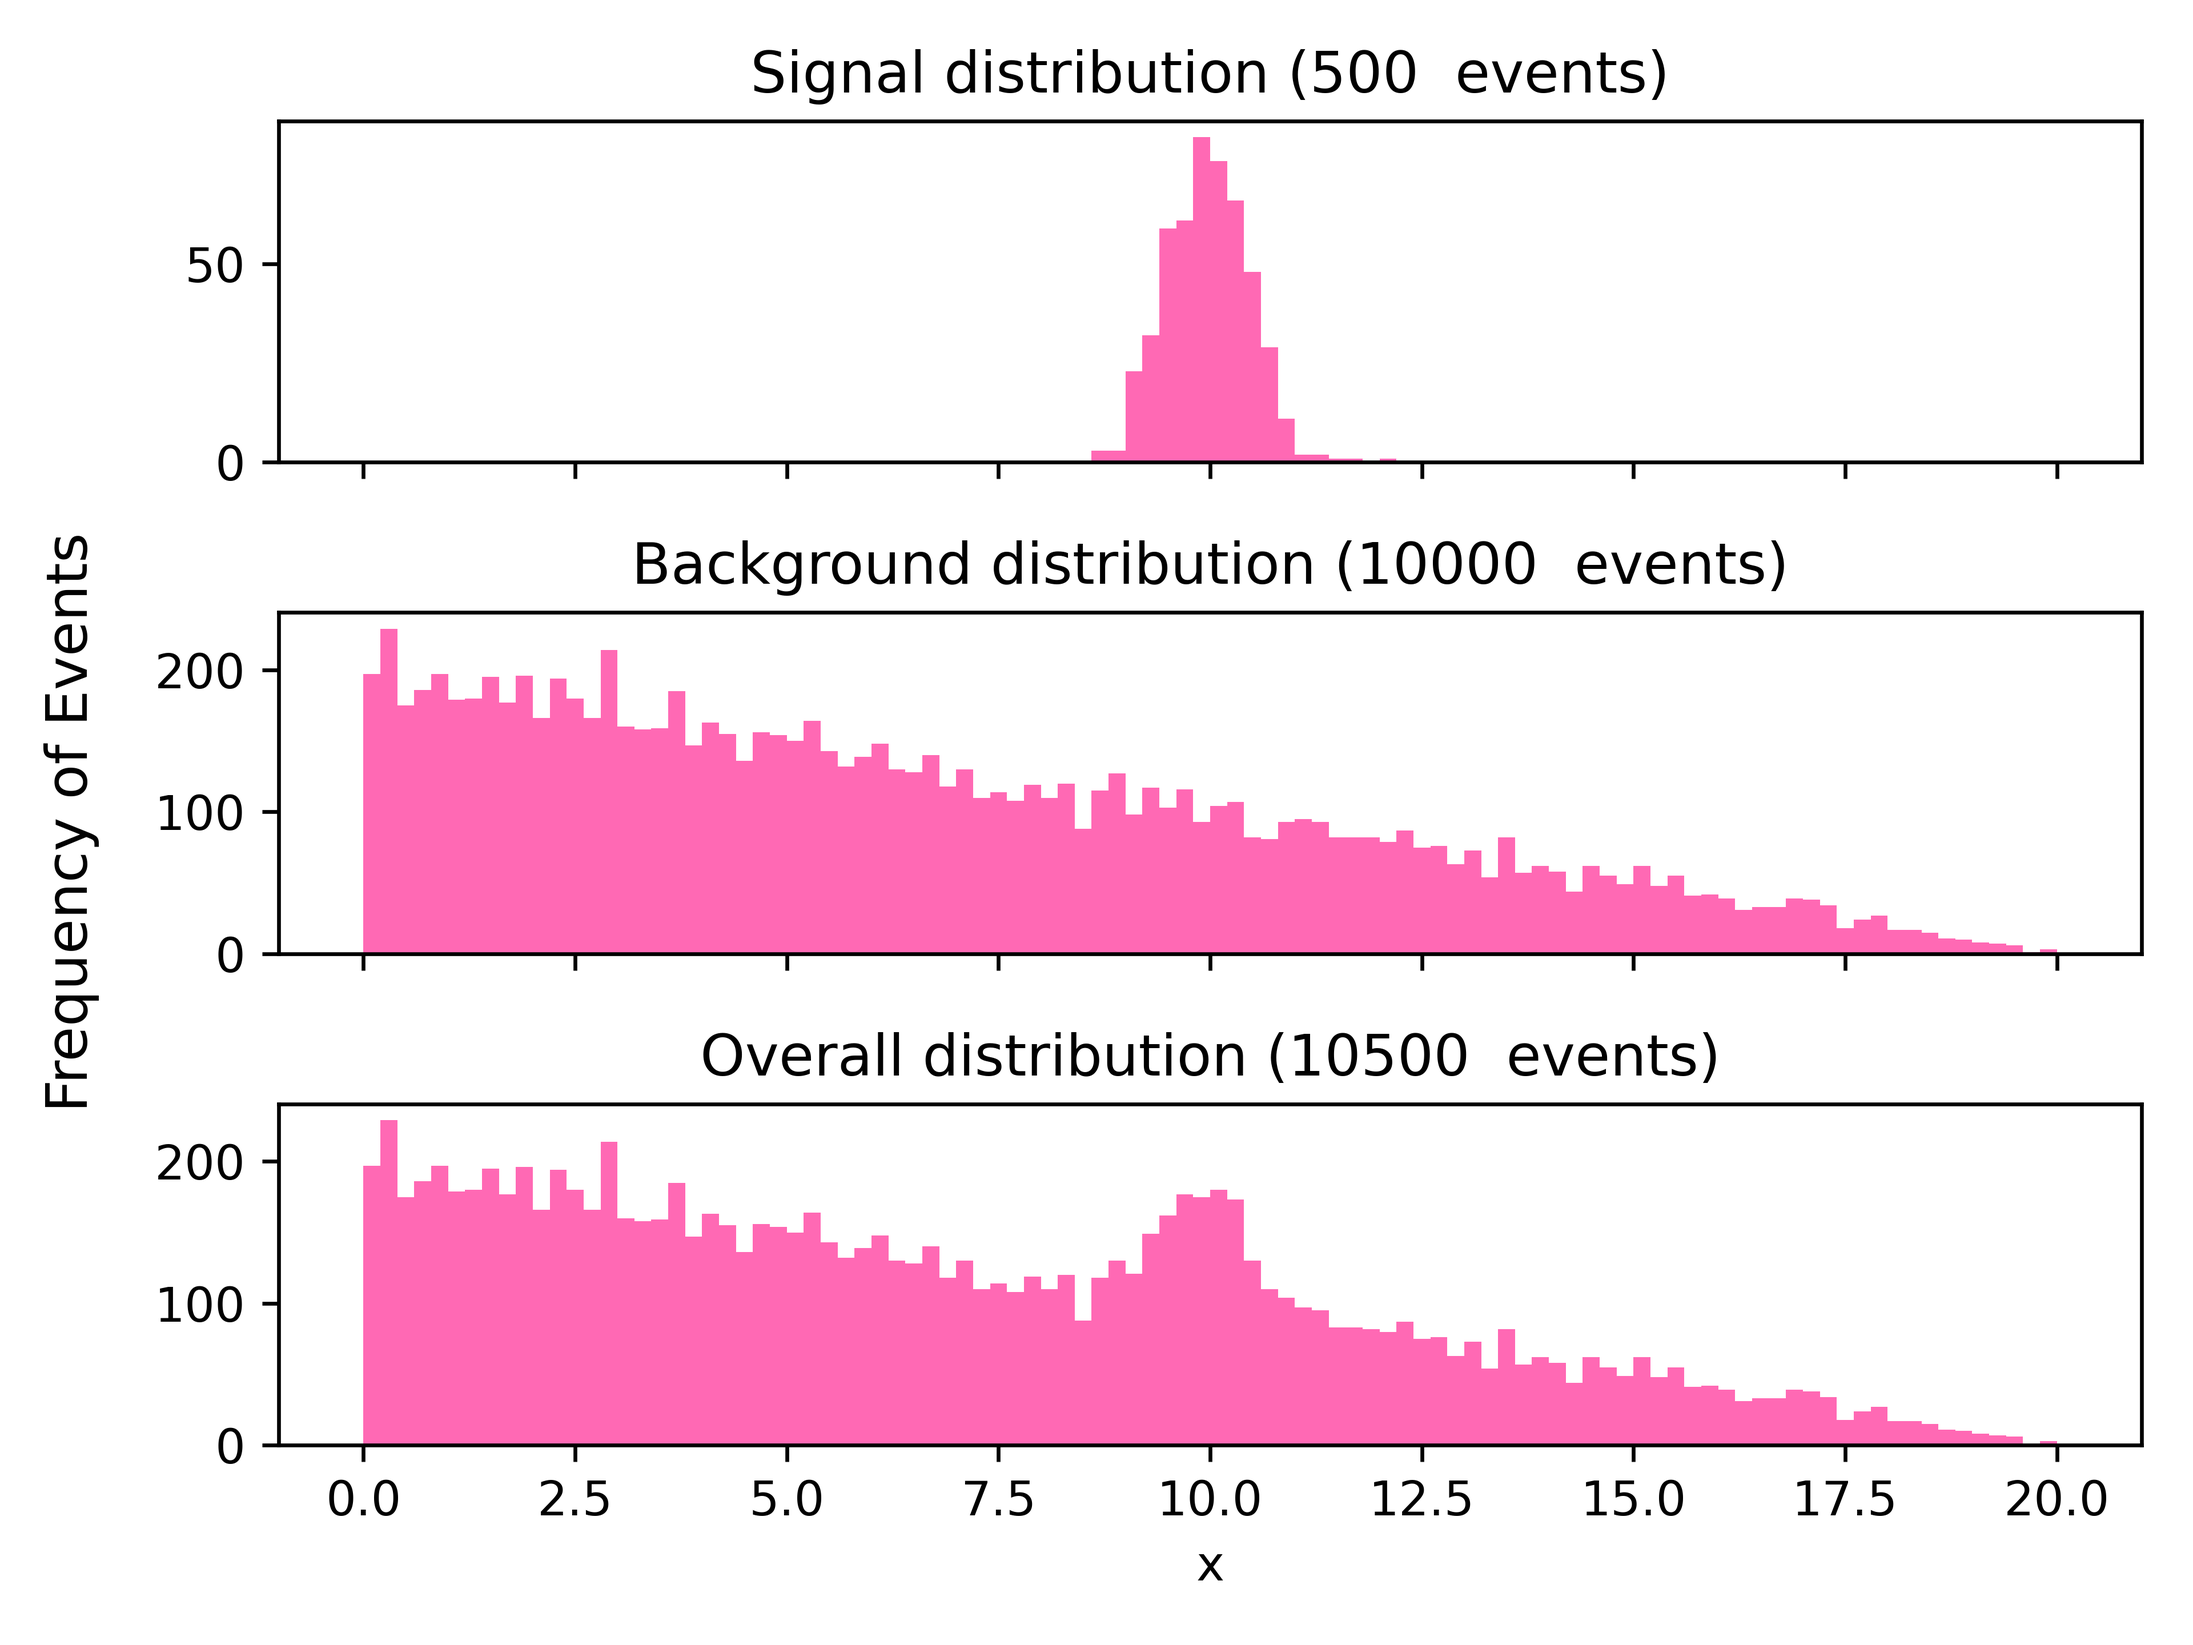
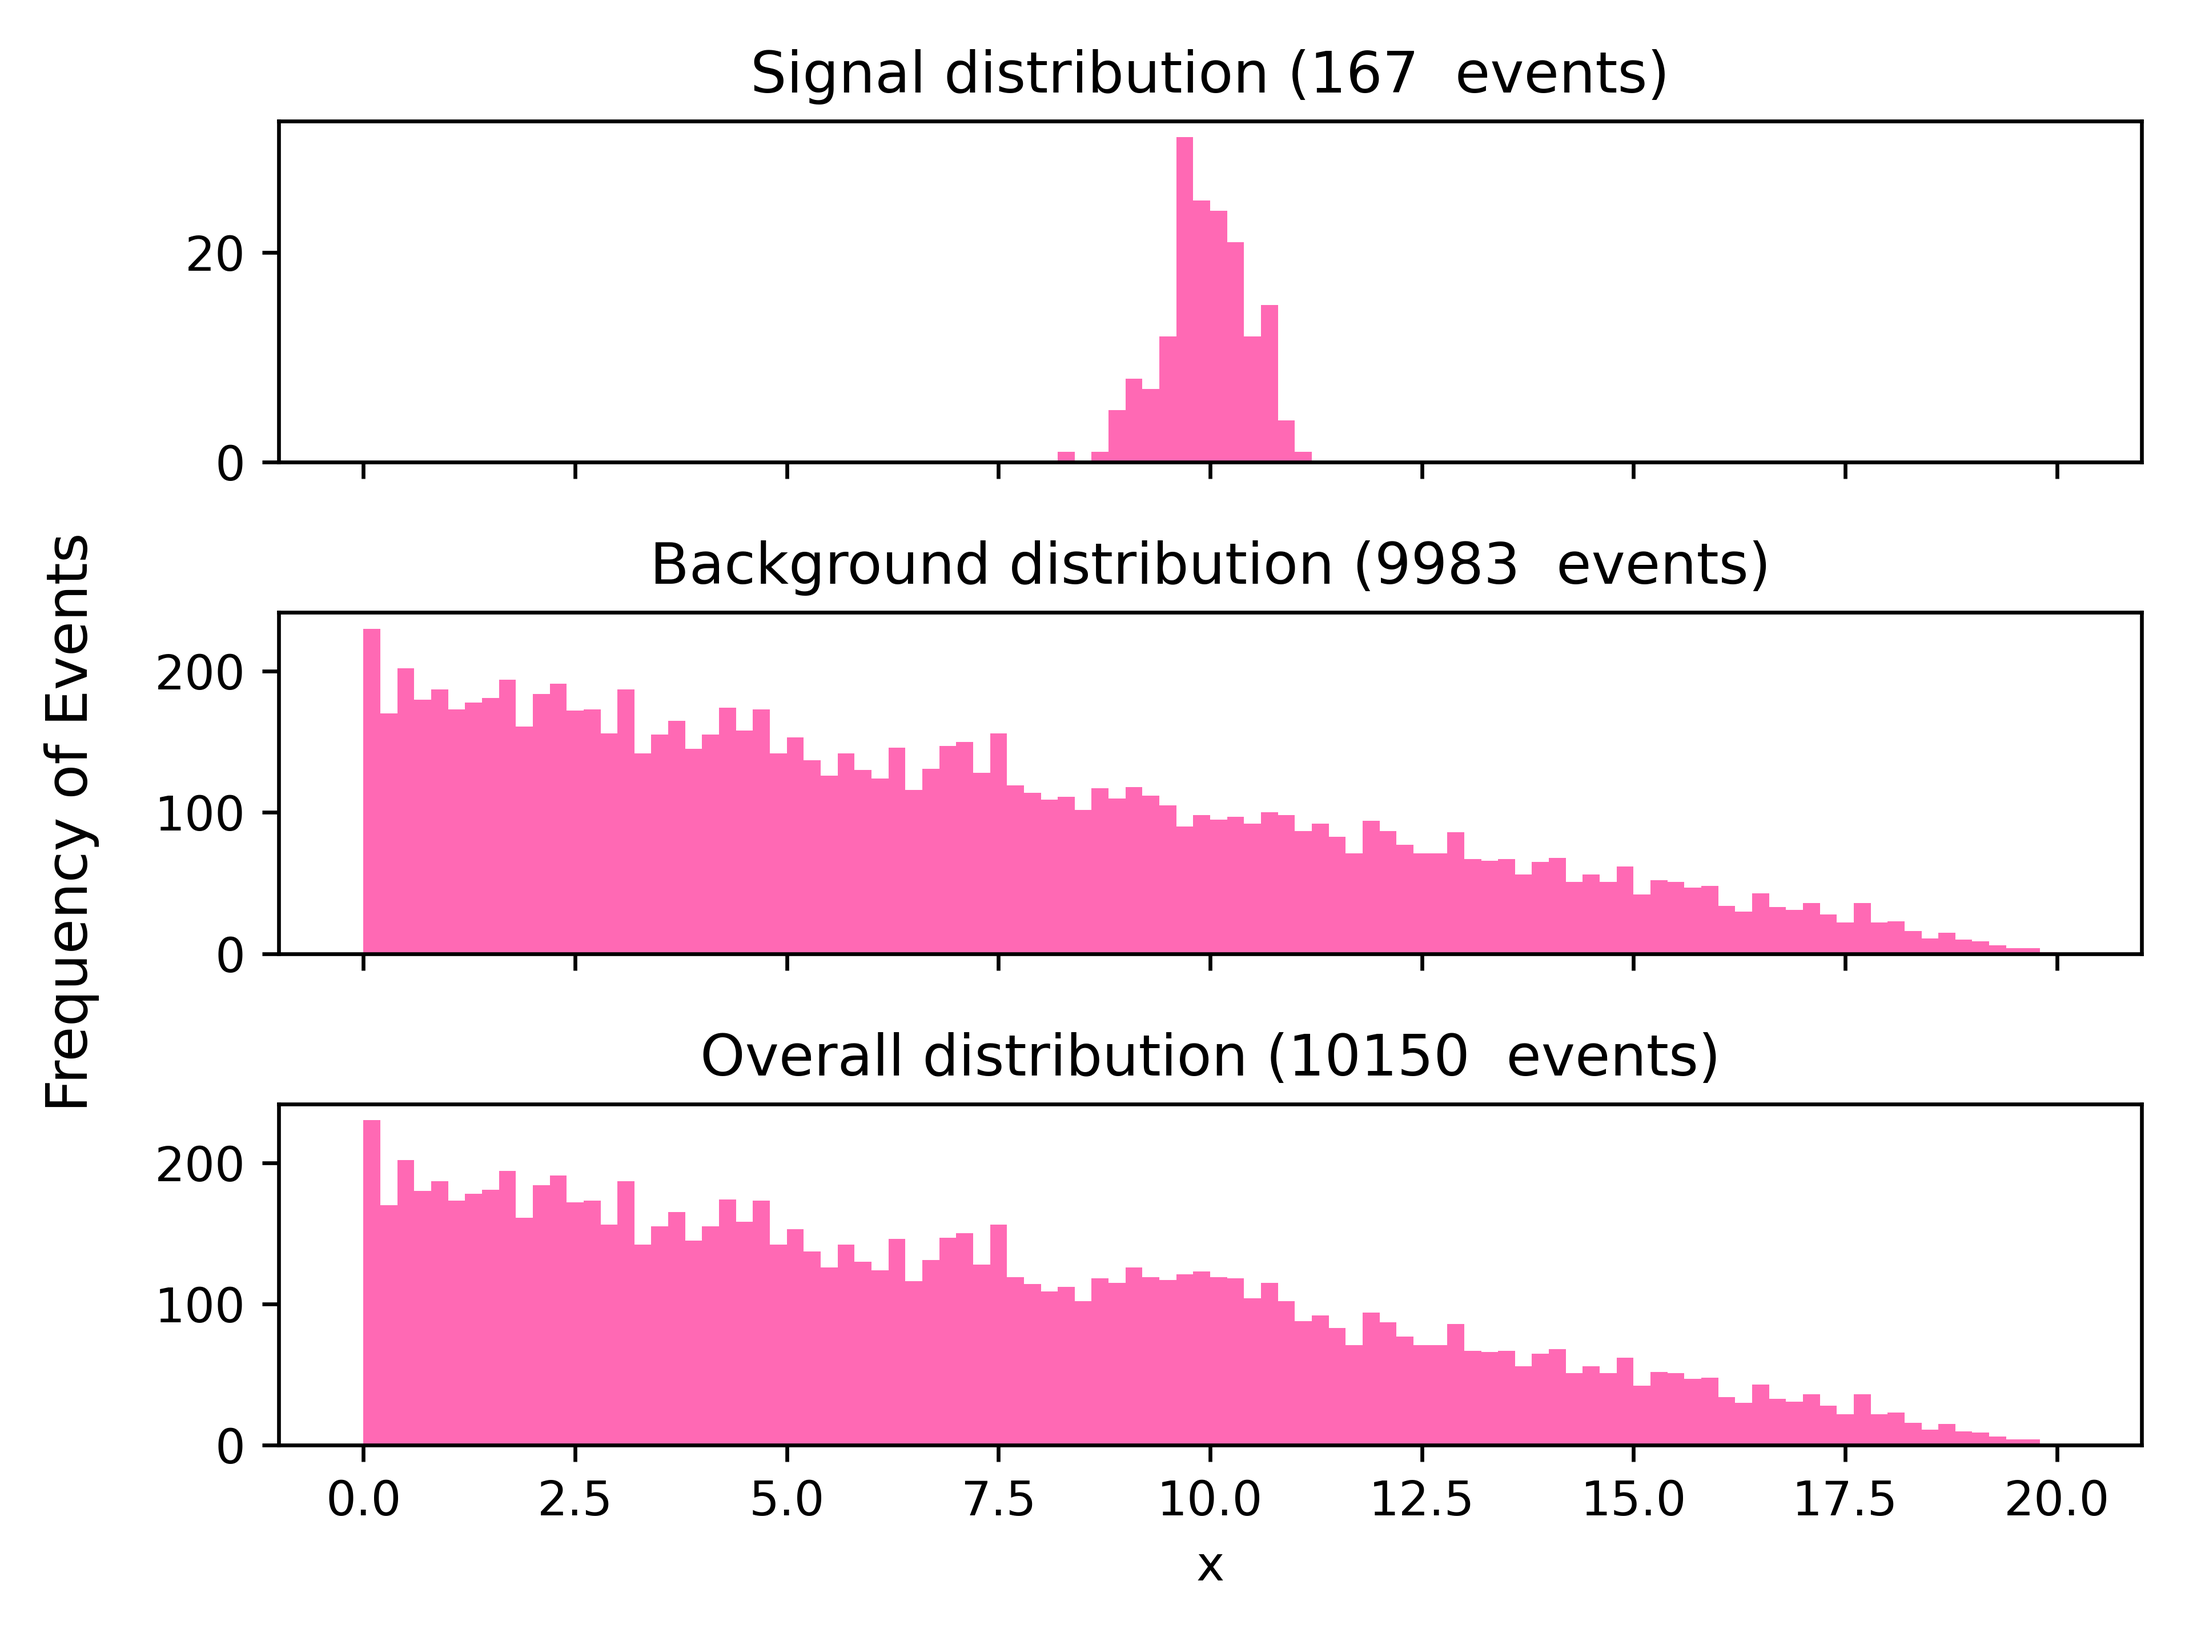
Added readme

diff --git a/week-8/runCheckpoint.py b/week-8/runCheckpoint.py
@@ -84,6 +84,10 @@ def compute_delta_chi_squared(
     m_null = Minuit( null_statistic.evaluateNull, slope=-0.3, intercept=18.0,)
     m_alternative = Minuit( alternative_statistic.evaluateAlternative, signalFraction=0.5, slope=-0.3, intercept=18.0)
 
+    # Set resonable limits for parameters of optimiser to ensure robustness
+    m_null.limits = [(-1.3, -0.5), (15.0, 20.5)]                    # Slope, intercept
+    m_alternative.limits = [(0, 1), (-1.3, -0.5), (15.0, 20.5)]     # Signal Fraction, Slope, Intercept 
+
     # Minimise hypothesis
     result_null = m_null.migrad()
     result_alternative = m_alternative.migrad()
@@ -122,6 +126,8 @@ def excersice_1():
         MEAN, SIGMA, SLOPE, INTERCEPT, BOUNDS, n_events_signal=N_SIGNAL_EVENT,
         n_events_background=N_BACKGROUND_EVENTS, plot_distribution=PLOT_DISTRIBUTION, n_bins=N_BINS
     )
+
+    print(f"Single toy dataset plotted.")
 
     print_question_header(question=1, mode="end")
 
@@ -178,7 +184,7 @@ def excersice_3():
 
     background_event_ratio = possible_signal_integral/total_background_integral
 
-    print(f"Ratio between expected background events between ranges {BOUNDS_LINEAR} and {BOUNDS_POSSIBLE_SIGNAL} is {background_event_ratio*100:.2f}%")
+    print(f"Using integration the ratio between expected background events between ranges {BOUNDS_LINEAR} and {BOUNDS_POSSIBLE_SIGNAL} was found to be {background_event_ratio*100:.2f}%")
 
     # Compute significance of there being 300 aditional events for a background with 50% expected background events
     _, n_sigma = find_significance(pdf_gaussain, INTERVAL_LIMITS)
@@ -200,12 +206,14 @@ def excersice_4():
     SIGMA = 0.5
     SLOPE = -1.0
     INTERCEPT = 20.0
-    N_SIGNAL_EVENT = 500 
+    N_SIGNAL_EVENT = 150 
     N_BACKGROUND_EVENTS = 10000
     N_BINS = 100
     PLOT_DISTRIBUTION = False 
     TOTAL_EXPECTED_EVENTS = N_SIGNAL_EVENT + N_BACKGROUND_EVENTS
     SIGNAL_FRACTION = N_SIGNAL_EVENT/TOTAL_EXPECTED_EVENTS
+
+    print(f"With {N_SIGNAL_EVENT} expected signal events and {N_BACKGROUND_EVENTS} background events:")
 
     # Generate SignalWithBackground object
     pdf = single_toy(
@@ -290,21 +298,23 @@ def excersice_5():
     # Array to contain delta chi squared
     delta_chi_squared_array = []
     # Iterate to compute multiple delta chi squared for linear distribution
+    print(f"Running {N_DELTA_CHI_SQUARED_EVENTS} optimisations. This may take several minutes.")
     for epoch in range(N_DELTA_CHI_SQUARED_EVENTS):
         delta_chi_squared = compute_delta_chi_squared(
             MEAN, SIGMA, SLOPE, INTERCEPT, BOUNDS, N_SIGNAL_EVENT, N_BACKGROUND_EVENTS, N_BINS,
         )
         delta_chi_squared_array.append(delta_chi_squared) 
         # Print out progress of loop
-        if (epoch+1) % 10 == 0:
+        if (epoch+1) % 100 == 0:
             print(f"Progress:\t{epoch+1}/{N_DELTA_CHI_SQUARED_EVENTS}")
     # Convert list to numprodsingle_mu_bnblike.fclpy array
     delta_chi_squared_array = np.array(delta_chi_squared_array)
 
-    plt.close()
+    plt.close("all")
     # Plot delta chi squared distribution
+    weights = np.ones_like(delta_chi_squared_array)/delta_chi_squared_array.size
     fig, axes = plt.subplots(2, 1,)
-    axes[0].hist(delta_chi_squared_array, bins=N_BINS, density=True, color="hotpink", range=(0.0, 0.0010))
+    axes[0].hist(delta_chi_squared_array, bins=N_BINS, weights=weights, color="hotpink", range=(0.0, 0.0010))
     axes[0].set_ylabel("Probability")
     axes[0].set_xlabel(r"$\Delta\chi^2$ statistic (Wilk's Theorem)")
     axes[0].set_title(r"$\Delta\chi^2$ Probability density function")
@@ -315,12 +325,11 @@ def excersice_5():
     fig.tight_layout()
     plt.show()
 
-
     print_question_header(question=5, mode="end")
 
 if __name__ == "__main__":
-    # excersice_1()
-    # excersice_2()
-    # excersice_3()
+    excersice_1()
+    excersice_2()
+    excersice_3()
     excersice_4()
     excersice_5()
